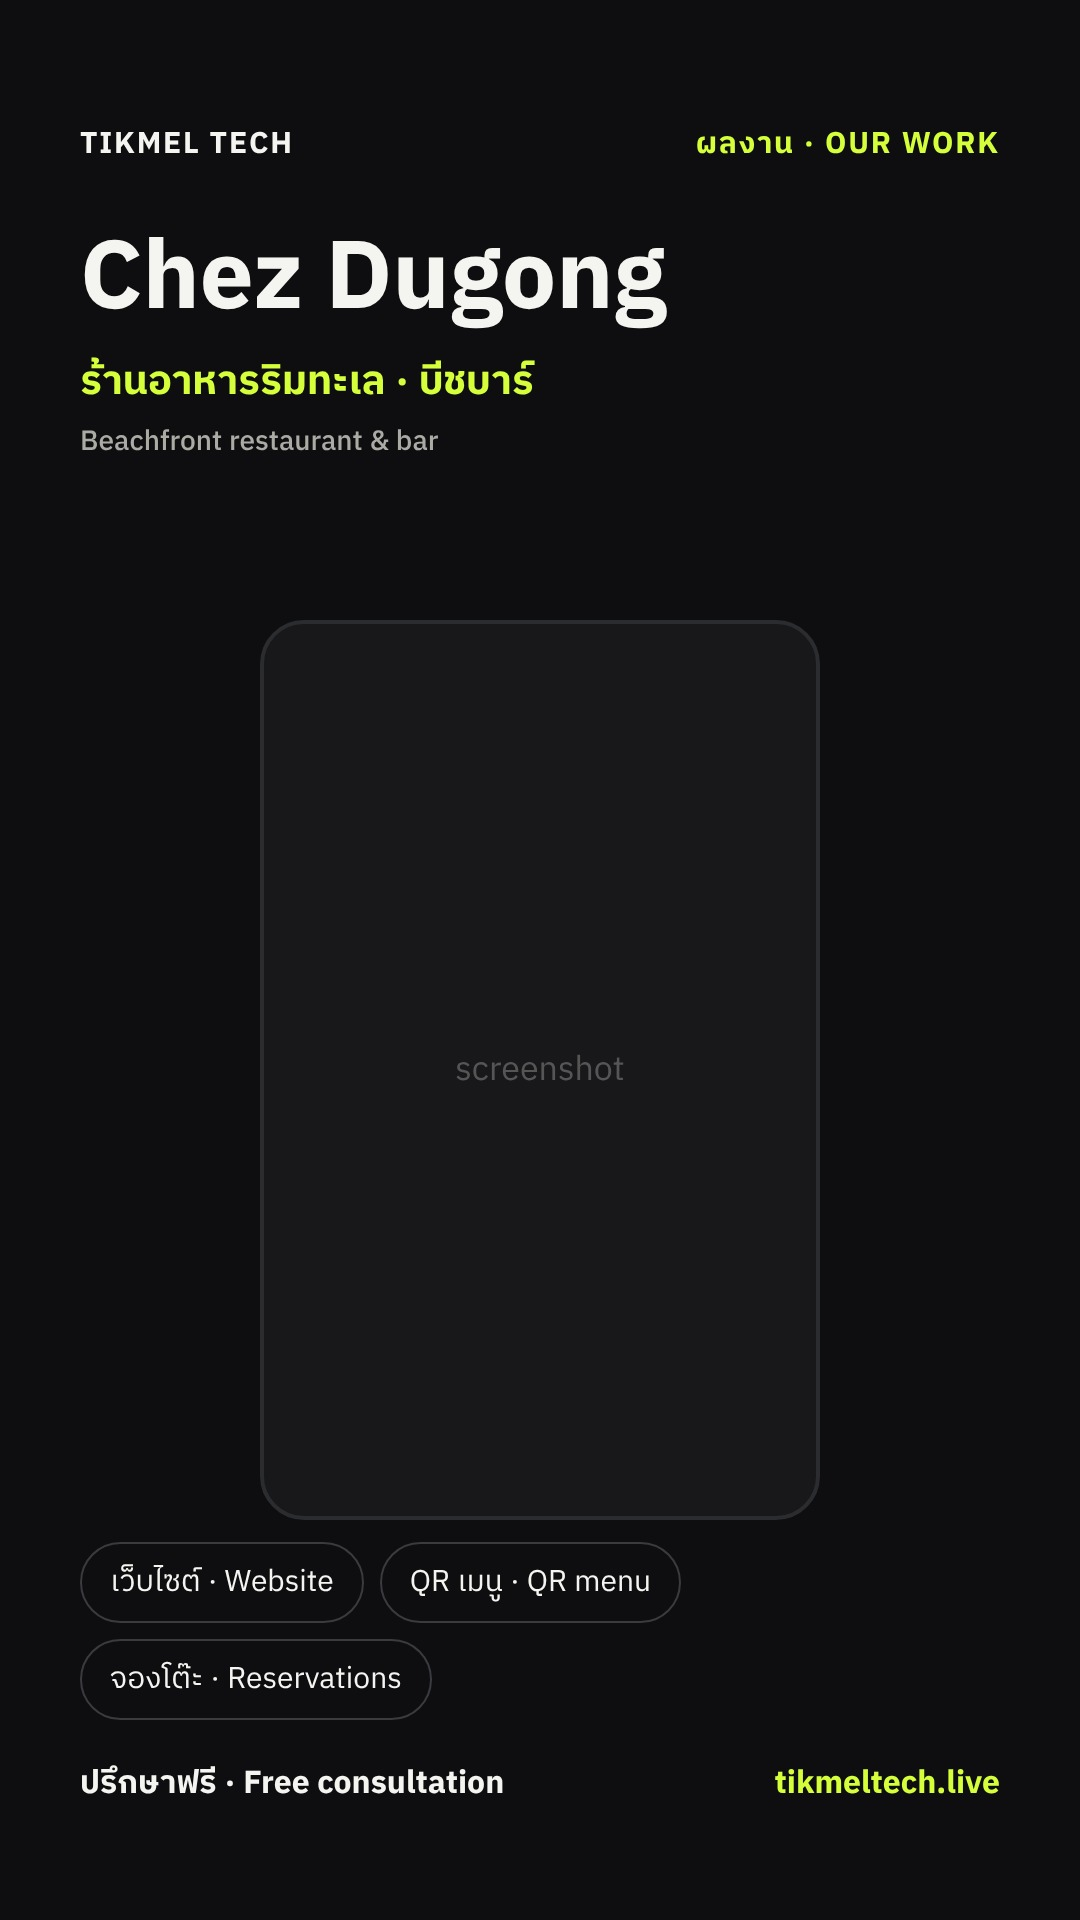
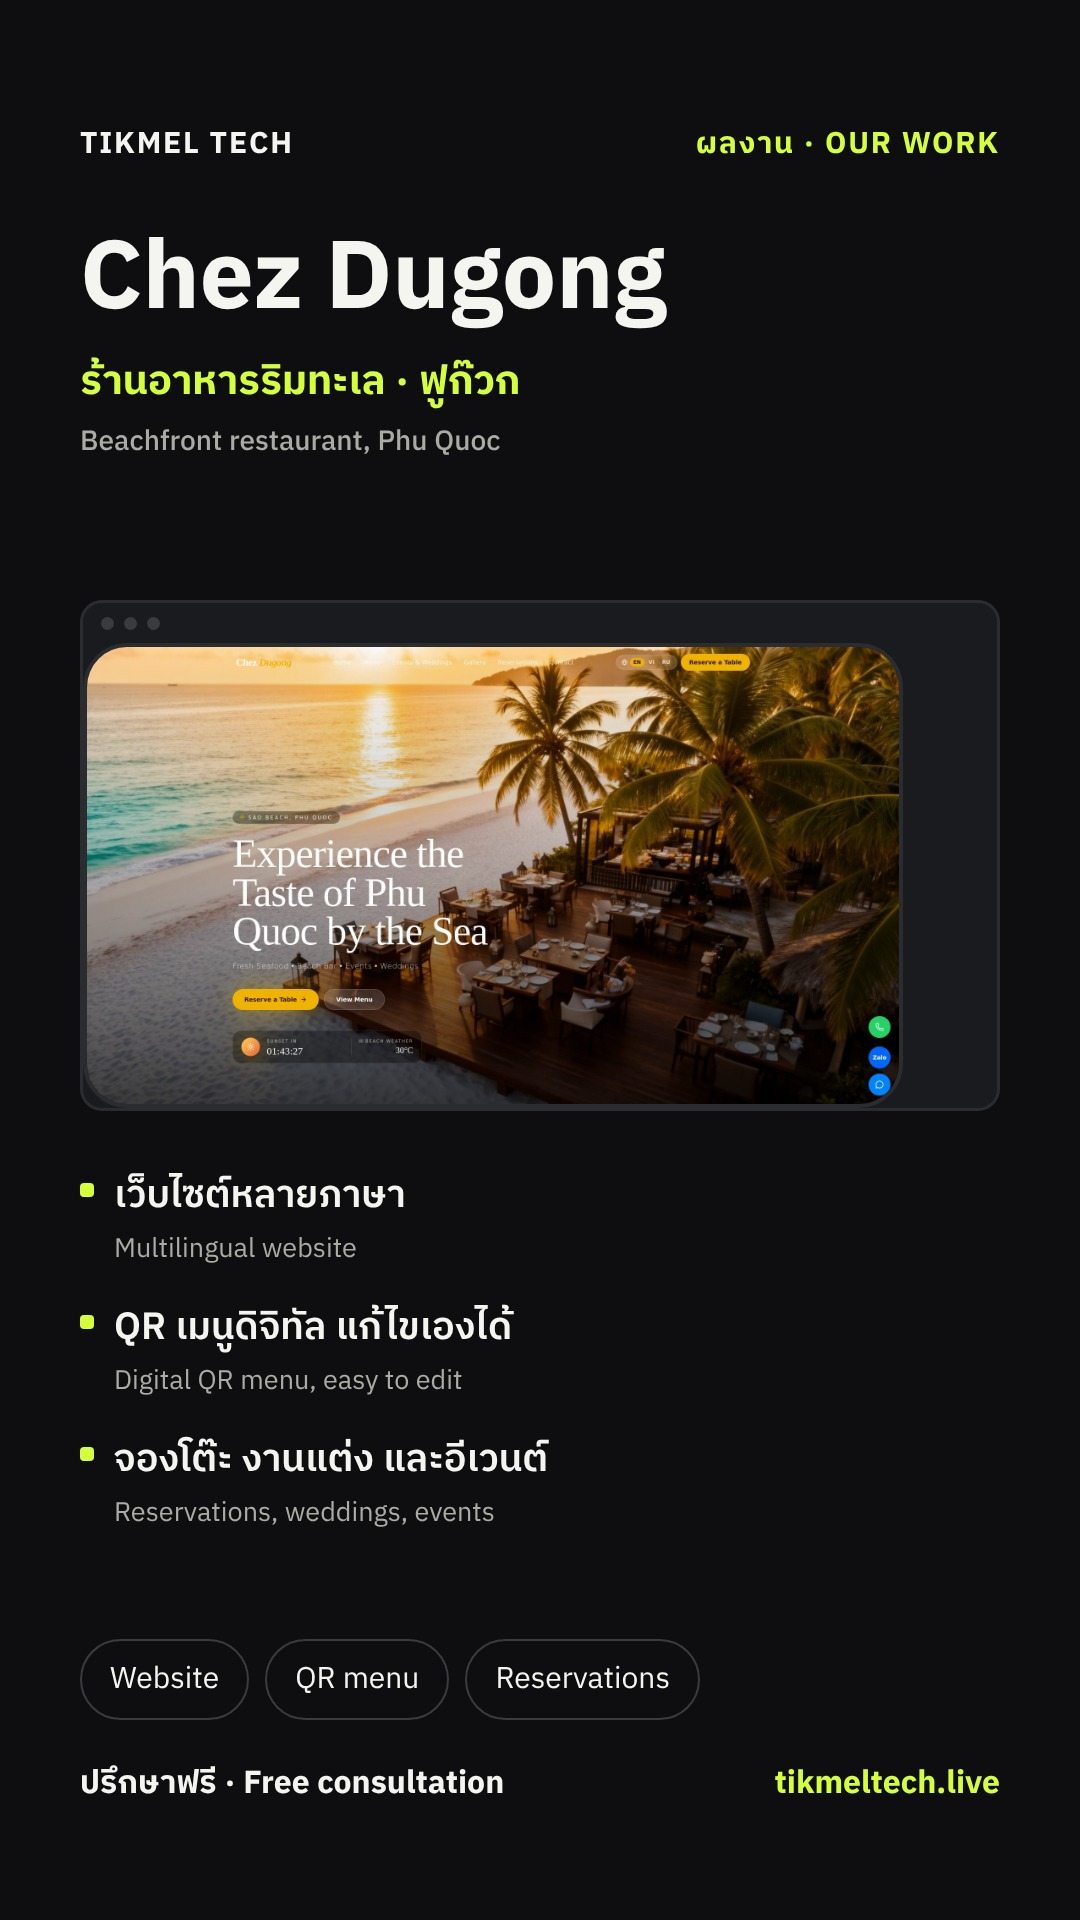
Portfolio stories for 5 client sites
Claude-Session: https://claude.ai/code/session_016uP9BNKCpKFRJuaZbHgzt7

Changed region(s): [[0.0611, 0.3125, 0.8556, 0.9062], [0.4583, 0.8125, 0.6111, 0.875], [0.3361, 0.1875, 0.4889, 0.25]]

diff --git a/design/render_story.py b/design/render_story.py
@@ -21,8 +21,9 @@ body{{background:{BG};color:#F4F5F0;font-family:"Plex Thai",sans-serif}}"""
 
 
 def story(s):
-    shot = (f'<img src="{(ROOT / s["shot"]).as_uri()}">' if s.get("shot")
+    shot = (f'<div class="win"><div class="bar"><i></i><i></i><i></i></div><img src="{(ROOT / s["shot"]).as_uri()}"></div>' if s.get("shot")
             else '<div class="ph">screenshot</div>')
+    pts = "".join(f'<li><b>{e(a)}</b><span>{e(b)}</span></li>' for a, b in s.get("points", []))
     tags = "".join(f'<span>{e(t)}</span>' for t in s["tags"])
     return f"""<!doctype html><html><head><meta charset="utf-8"><style>{BASE}
 body{{padding:120px 80px 0;position:relative}}
@@ -31,7 +32,15 @@ body{{padding:120px 80px 0;position:relative}}
 h1{{font-size:96px;line-height:1.08;font-weight:700;margin-top:60px}}
 .sec{{font-size:40px;font-weight:700;color:{LIME};margin-top:16px}}
 .sec small{{display:block;font-size:28px;color:#A9ABA4;font-weight:500;margin-top:4px}}
-.frame{{position:absolute;left:0;right:0;top:620px;bottom:400px;display:flex;justify-content:center}}
+.frame{{position:absolute;left:80px;right:80px;top:600px;bottom:330px;display:flex;flex-direction:column;gap:54px}}
+.win{{border-radius:22px;overflow:hidden;border:3px solid #2B2C2F;background:#1A1B1E}}
+.win .bar{{height:40px;display:flex;gap:10px;align-items:center;padding:0 18px}}
+.win .bar i{{width:13px;height:13px;border-radius:50%;background:#3A3B3F}}
+.win img{{width:100%;max-width:none;max-height:none;border:0;border-radius:0;display:block}}
+ul{{list-style:none;display:flex;flex-direction:column;gap:26px}}
+li{{display:flex;flex-direction:column;padding-left:34px;position:relative}}
+li:before{{content:"";position:absolute;left:0;top:18px;width:14px;height:14px;border-radius:4px;background:{LIME}}}
+li b{{font-size:38px;font-weight:600}} li span{{font-size:27px;color:#A9ABA4}}
 .frame img,.ph{{max-height:100%;max-width:820px;border-radius:44px;border:4px solid #2B2C2F;display:block}}
 .ph{{width:560px;height:100%;display:flex;align-items:center;justify-content:center;color:#555;font-size:34px;background:#18181B}}
 .tags{{position:absolute;left:80px;right:80px;bottom:200px;display:flex;flex-wrap:wrap;gap:16px}}
@@ -42,7 +51,7 @@ h1{{font-size:96px;line-height:1.08;font-weight:700;margin-top:60px}}
 <div class="top"><span>TIKMEL TECH</span><span class="k">ผลงาน · OUR WORK</span></div>
 <h1>{"<br>".join(e(x) for x in s["name"].split(chr(10)))}</h1>
 <div class="sec">{e(s["sector_th"])}<small>{e(s["sector_en"])}</small></div>
-<div class="frame">{shot}</div>
+<div class="frame">{shot}<ul>{pts}</ul></div>
 <div class="tags">{tags}</div>
 <div class="foot"><span>ปรึกษาฟรี · Free consultation</span><span class="u">tikmeltech.live</span></div>
 </body></html>"""
